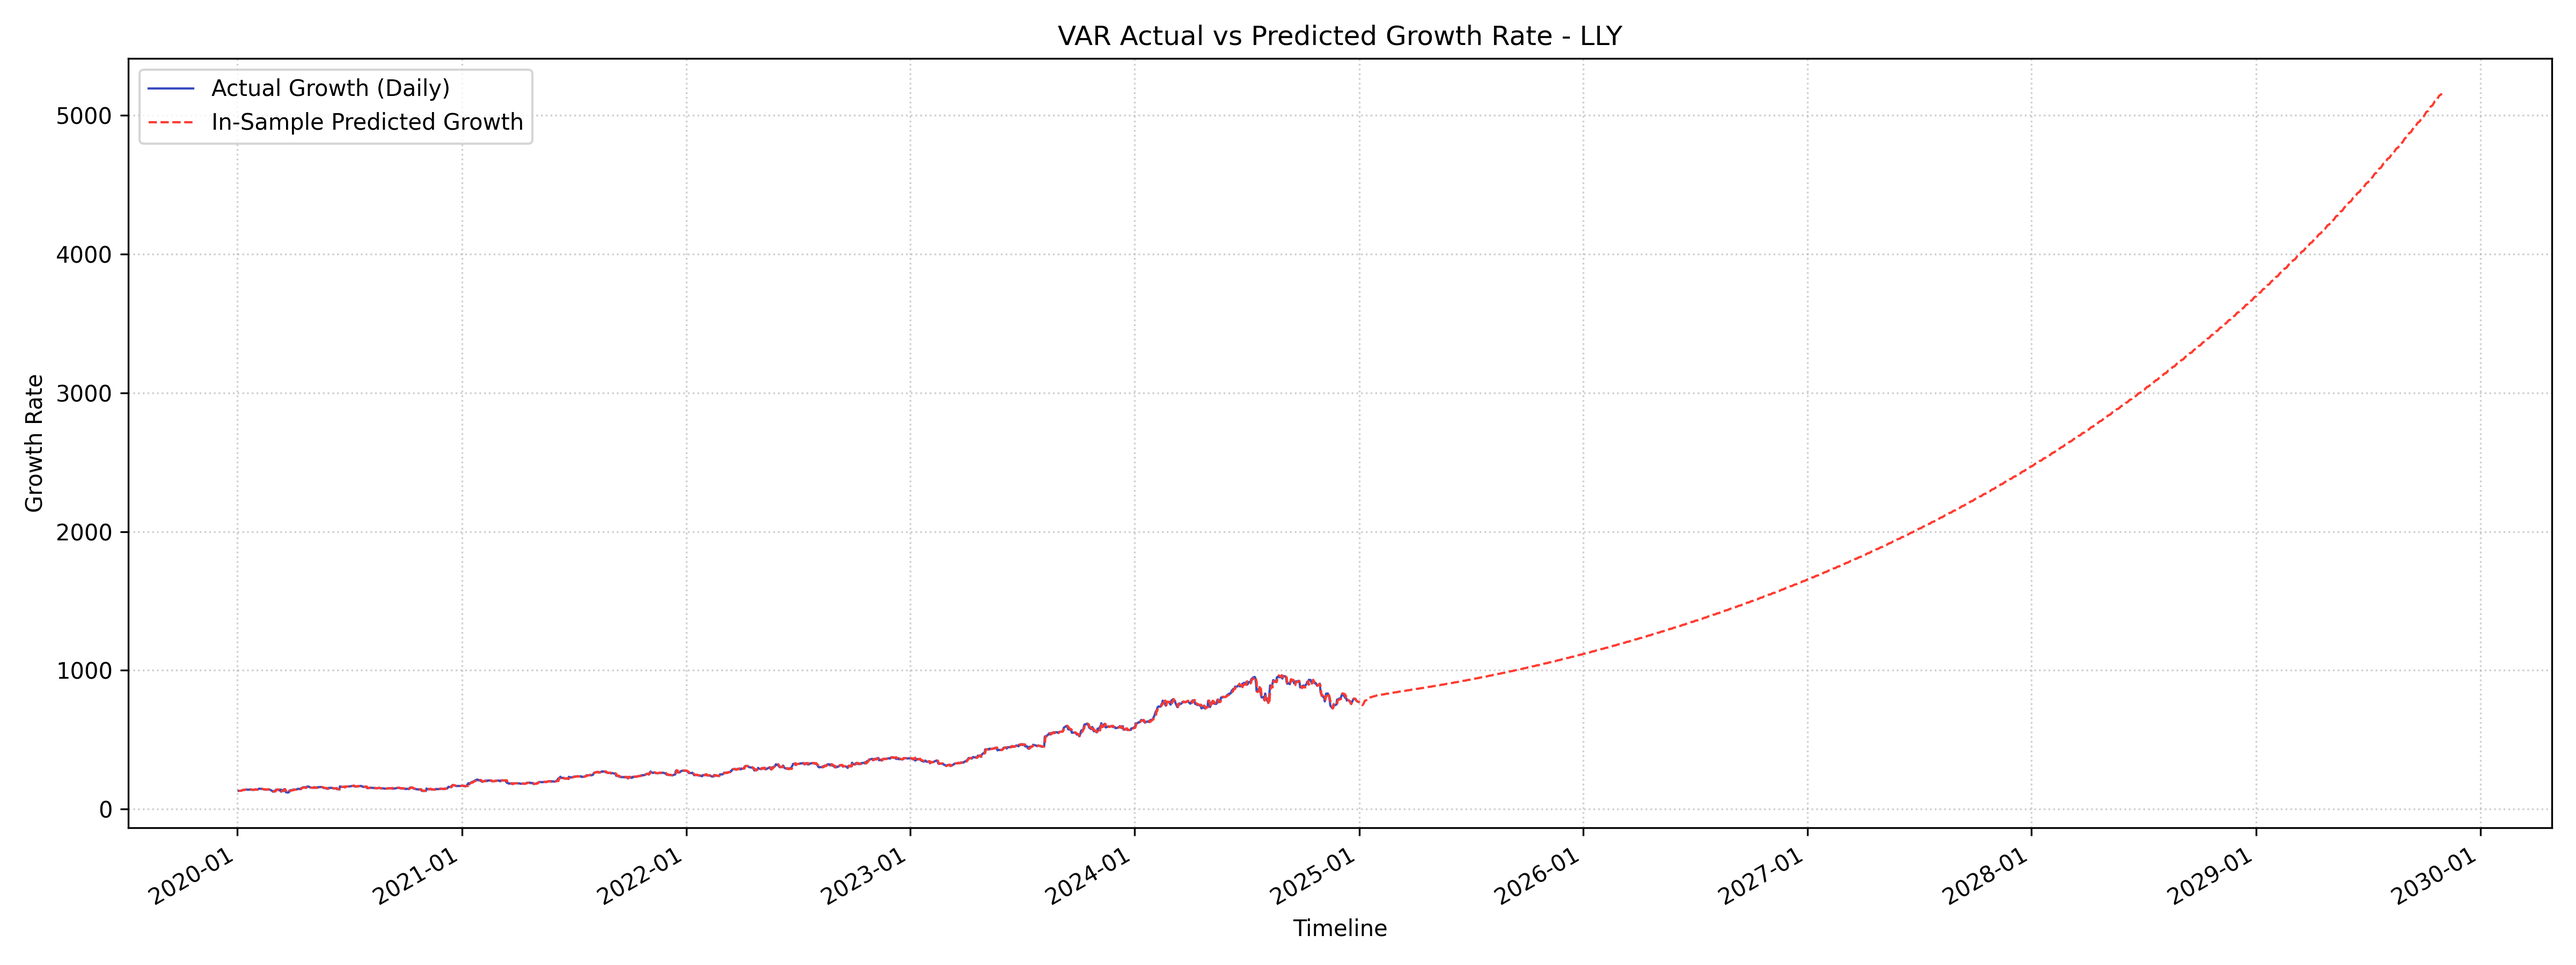
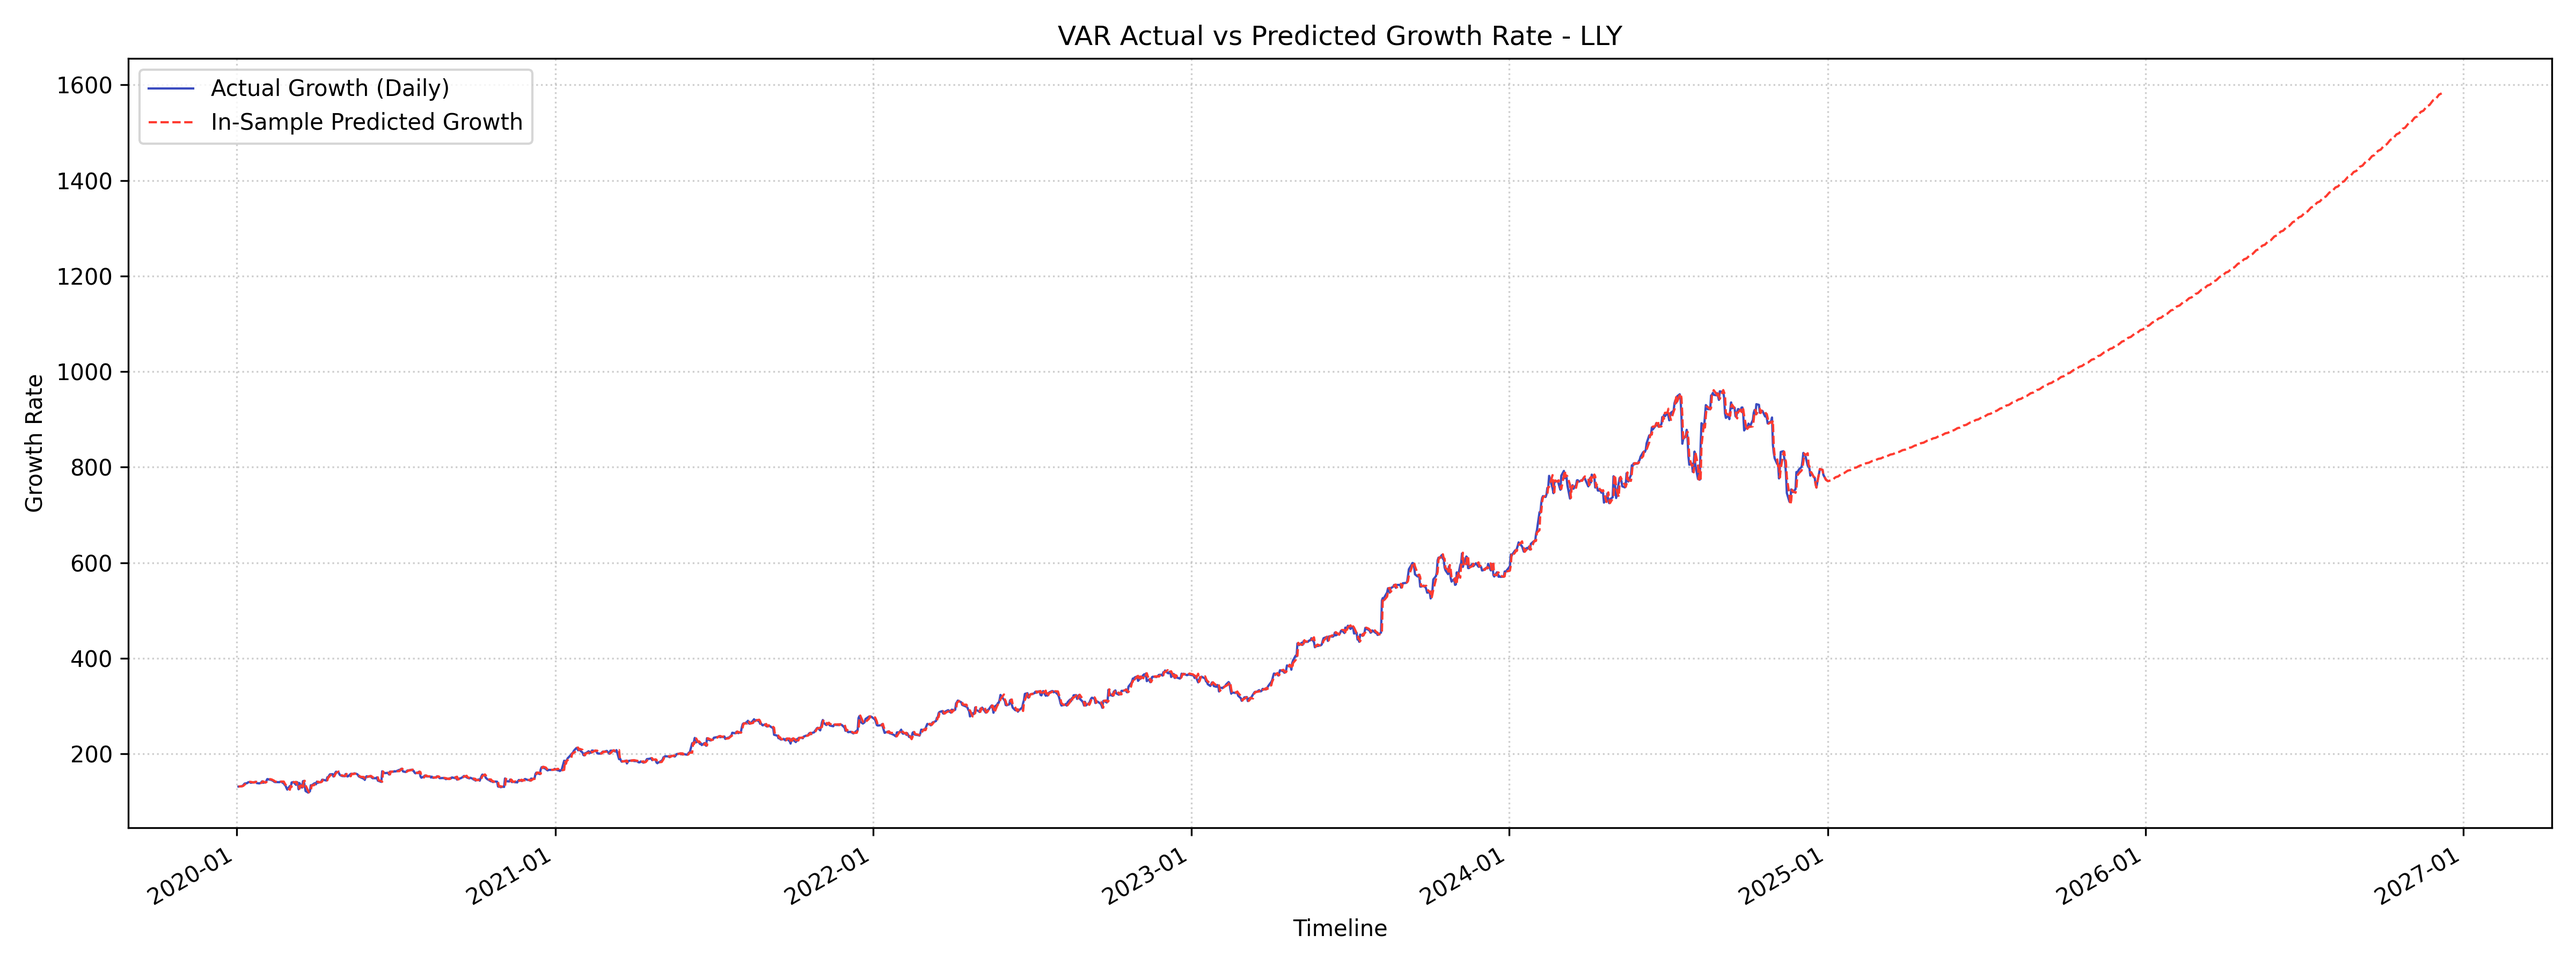
24M Prediction

diff --git a/ARIMAGrowthModel/testing.py b/ARIMAGrowthModel/testing.py
@@ -27,20 +27,20 @@ class ARIMATester:
         mae = float(np.mean(np.abs(errors)))
         
         last_exog = df[feature_cols].iloc[-1]
-        forecast_steps = 1260
-        logger.info(f"Forecasting {forecast_steps} daily steps (5 years) into the future")
+        forecast_steps = 504
+        logger.info(f"Forecasting {forecast_steps} daily steps (2 years) into the future")
         forecast_daily = self.model_arch.forecast_out_of_sample(forecast_steps, last_exog)
         
         annual_growth_rates = []
-        for i in range(5):
+        for i in range(2):
             segment_mean = float(forecast_daily.iloc[i * 252:(i + 1) * 252].mean())
             annual_growth_rates.append(segment_mean)
-        logger.info(f"Calculated 5-year forecasted annual growth rates: {annual_growth_rates}")
+        logger.info(f"Calculated 2-year forecasted annual growth rates: {annual_growth_rates}")
 
         dcf = DiscountedCashFlowModel(initial_fcf=150.0, discount_rate=0.09)
         intrinsic_val = dcf.calculate_valuation(
             growth_rates=annual_growth_rates,
-            forecast_years=5,
+            forecast_years=2,
             terminal_growth_rate=0.03,
             net_debt=200.0,
             shares_outstanding=10.0
@@ -56,14 +56,14 @@ class ARIMATester:
         max_date = df["date"].max()
         max_dt = datetime.datetime.combine(max_date, datetime.time.min, tzinfo=datetime.timezone.utc)
         to_date_ms = int(max_dt.timestamp() * 1000)
-        ms_5y = 5 * 365 * 24 * 60 * 60 * 1000
+        ms_2y = 2 * 365 * 24 * 60 * 60 * 1000
         future_from_ms = to_date_ms
-        future_to_ms = to_date_ms + ms_5y
-        future_5y_fwd_to_ms = future_to_ms + ms_5y
+        future_to_ms = to_date_ms + ms_2y
+        future_2y_fwd_to_ms = future_to_ms + ms_2y
 
-        logger.info(f"Fetching future base window {future_from_ms} to {future_to_ms} and forward window {future_to_ms} to {future_5y_fwd_to_ms} for {loader.symbol}")
+        logger.info(f"Fetching future base window {future_from_ms} to {future_to_ms} and forward window {future_to_ms} to {future_2y_fwd_to_ms} for {loader.symbol}")
         ohlcv_future_base = await loader._fetch_ohlcv_data(loader.symbol, future_from_ms, future_to_ms, real_time=False)
-        ohlcv_future_fwd = await loader._fetch_ohlcv_data(loader.symbol, future_to_ms, future_5y_fwd_to_ms, real_time=False)
+        ohlcv_future_fwd = await loader._fetch_ohlcv_data(loader.symbol, future_to_ms, future_2y_fwd_to_ms, real_time=False)
 
         daily_closes_future_base = {}
         for item in ohlcv_future_base:
@@ -83,11 +83,11 @@ class ARIMATester:
         out_predicted = []
 
         for i, (d, close_d) in enumerate(sorted(daily_closes_future_base.items())):
-            d_5y_fwd_target = d + datetime.timedelta(days=5 * 365)
+            d_2y_fwd_target = d + datetime.timedelta(days=2 * 365)
             actual_growth = None
             if dates_fwd:
-                closest_d = min(dates_fwd, key=lambda x: abs((x - d_5y_fwd_target).days))
-                if abs((closest_d - d_5y_fwd_target).days) <= MAX_FORWARD_TOLERANCE_DAYS:
+                closest_d = min(dates_fwd, key=lambda x: abs((x - d_2y_fwd_target).days))
+                if abs((closest_d - d_2y_fwd_target).days) <= MAX_FORWARD_TOLERANCE_DAYS:
                     actual_growth = (daily_closes_future_fwd[closest_d] - close_d) / close_d
 
             out_dates.append(pd.Timestamp(d))
@@ -152,9 +152,9 @@ class ARIMATester:
         ax.xaxis.set_major_locator(mdates.MonthLocator(interval=6))
         fig.autofmt_xdate(rotation=45)
 
-        ax.set_title(f"ARIMA: Actual vs Predicted 5-Year Forward Growth Rate ({symbol}, from 2015)")
+        ax.set_title(f"ARIMA: Actual vs Predicted 2-Year Forward Growth Rate ({symbol}, from 2015)")
         ax.set_xlabel("Date")
-        ax.set_ylabel("5-Year Forward Growth Rate")
+        ax.set_ylabel("2-Year Forward Growth Rate")
         ax.legend()
         ax.grid(True, linestyle=":", alpha=0.5)
 
@@ -162,4 +162,3 @@ class ARIMATester:
         plt.savefig(plot_path, dpi=300, bbox_inches="tight")
         plt.close()
         logger.info(f"Saved visualization results plot to: {plot_path}")
-

diff --git a/VARGrowthModel/testing.py b/VARGrowthModel/testing.py
@@ -20,7 +20,8 @@ class VARTester:
         train_np = df_growth.to_numpy()[:train_size]
         test_np = df_growth.to_numpy()[train_size:]
 
-        model = VectorAutoregressionModel(lags=self.trainer.lags)
+        lags_train = self.trainer.tune_lags(train_np)
+        model = VectorAutoregressionModel(lags=lags_train)
         model.fit(train_np)
         
         test_steps = len(test_np)
@@ -33,7 +34,8 @@ class VARTester:
         mse = np.mean((actual_close_growth - pred_close_growth) ** 2)
         mae = np.mean(np.abs(actual_close_growth - pred_close_growth))
 
-        full_model = VectorAutoregressionModel(lags=self.trainer.lags)
+        lags_full = self.trainer.tune_lags(df_growth.to_numpy())
+        full_model = VectorAutoregressionModel(lags=lags_full)
         full_model.fit(df_growth.to_numpy())
 
         if results_dir:
@@ -55,7 +57,7 @@ class VARTester:
                 pred_close_g = pred_growth[close_idx]
                 predicted_prices[t + 1] = ohlcv_list[t].close * (1.0 + pred_close_g)
 
-            future_forecasts = full_model.forecast(df_growth.to_numpy(), steps=1260)
+            future_forecasts = full_model.forecast(df_growth.to_numpy(), steps=504)
             current_price = predicted_prices[-1]
             for pred_g in future_forecasts[:, close_idx]:
                 next_price = current_price * (1.0 + pred_g)
@@ -63,7 +65,7 @@ class VARTester:
                 current_price = next_price
 
             last_date = actual_dates[-1]
-            future_dates = pd.date_range(start=last_date + pd.offsets.BDay(), periods=1260, freq="B")
+            future_dates = pd.date_range(start=last_date + pd.offsets.BDay(), periods=504, freq="B")
             predicted_dates = actual_dates + list(future_dates)
 
             plt.figure(figsize=(16, 6))
@@ -83,10 +85,10 @@ class VARTester:
             plt.savefig(os.path.join(results_dir, f"{symbol}_forecast.png"), dpi=300)
             plt.close()
 
-        future_forecasts = full_model.forecast(df_growth.to_numpy(), steps=1260)
+        future_forecasts = full_model.forecast(df_growth.to_numpy(), steps=504)
         
         annual_growths = []
-        for year in range(5):
+        for year in range(2):
             start_idx = year * 252
             end_idx = (year + 1) * 252
             year_forecasts = future_forecasts[start_idx:end_idx, close_idx]
@@ -104,7 +106,7 @@ class VARTester:
         ddm_val = ddm.calculate_constant_growth(growth_rate=ddm_g)
         dcf_val = dcf.calculate_valuation(
             growth_rates=dcf_rates,
-            forecast_years=5,
+            forecast_years=2,
             terminal_growth_rate=0.03,
             net_debt=200.0,
             shares_outstanding=10.0

diff --git a/VARGrowthModel/training.py b/VARGrowthModel/training.py
@@ -63,8 +63,38 @@ class VARTrainer:
 
         return df_merged
 
+    def tune_lags(self, data: np.ndarray) -> int:
+        best_lag = 5
+        best_val_mse = float("inf")
+        n_samples = len(data)
+        split_idx = int(n_samples * 0.8)
+        train_data = data[:split_idx]
+        val_data = data[split_idx:]
+        for lag in range(1, 11):
+            if len(train_data) <= lag or len(val_data) <= lag:
+                continue
+            try:
+                temp_model = VectorAutoregressionModel(lags=lag)
+                temp_model.fit(train_data)
+                val_errors = []
+                for t in range(lag, len(val_data)):
+                    row = [1.0]
+                    for l in range(1, lag + 1):
+                        row.extend(val_data[t - l])
+                    pred = np.array(row) @ temp_model.coefficients
+                    val_errors.append(val_data[t] - pred)
+                val_mse = np.mean(np.array(val_errors) ** 2)
+                if val_mse < best_val_mse:
+                    best_val_mse = val_mse
+                    best_lag = lag
+            except Exception:
+                continue
+        return best_lag
+
     def train(self, ohlcv_list: list, scores_list: list = None) -> VectorAutoregressionModel:
         df_growth = self.prepare_data(ohlcv_list, scores_list)
+        data = df_growth.to_numpy()
+        self.lags = self.tune_lags(data)
         model = VectorAutoregressionModel(lags=self.lags)
-        model.fit(df_growth.to_numpy())
+        model.fit(data)
         return model

diff --git a/ARIMAGrowthModel/architecture.py b/ARIMAGrowthModel/architecture.py
@@ -27,6 +27,22 @@ class ARIMAModelArchitecture:
             self.fitted_features = list(exog.columns)
             logger.info(f"Filtered training features: {self.fitted_features}")
 
+        best_aic = float("inf")
+        best_order = (self.p, self.d, self.q)
+        for p in [1, 2]:
+            for d in [0, 1]:
+                for q in [0, 1]:
+                    try:
+                        temp_model = ARIMA(endog, order=(p, d, q), exog=exog)
+                        temp_fit = temp_model.fit()
+                        if temp_fit.aic < best_aic:
+                            best_aic = temp_fit.aic
+                            best_order = (p, d, q)
+                    except Exception:
+                        continue
+        self.p, self.d, self.q = best_order
+        logger.info(f"Tuned ARIMA parameters: p={self.p}, d={self.d}, q={self.q} (AIC={best_aic:.2f})")
+
         try:
             model = ARIMA(endog, order=(self.p, self.d, self.q), exog=exog)
             self.model_fit = model.fit()
@@ -48,8 +64,8 @@ class ARIMAModelArchitecture:
             raise ValuationError("Model has not been trained yet")
 
         n = len(endog)
-        FORECAST_HORIZON = 1260   # 5 years in trading days
-        STEP = 5                  # refit every 5 days, then interpolate
+        FORECAST_HORIZON = 504
+        STEP = 5
         min_train = max(self.p + self.q + 2, 10)
 
         exog = exog_full[self.fitted_features].fillna(0.0) if self.fitted_features else None

diff --git a/run_arima_refactored.py b/run_arima_refactored.py
@@ -47,7 +47,7 @@ async def run_symbol(symbol: str):
         logger.info(f"[{symbol}] === ARIMA Report ===")
         logger.info(f"[{symbol}] In-Sample MSE: {report['mse']:.6f}")
         logger.info(f"[{symbol}] In-Sample MAE: {report['mae']:.6f}")
-        logger.info(f"[{symbol}] Forecasted Annual Growth Rates (5 Yrs): {report['forecasted_growth_rates']}")
+        logger.info(f"[{symbol}] Forecasted Annual Growth Rates (2 Yrs): {report['forecasted_growth_rates']}")
         logger.info(f"[{symbol}] DCF Intrinsic Value: ${report['intrinsic_value']:.2f}")
         logger.info(f"[{symbol}] Plot saved to results/{symbol}_valuation_forecast.png")
 

diff --git a/SentimentAnalysis/SentimentTrendAnalysisFetcher.py b/SentimentAnalysis/SentimentTrendAnalysisFetcher.py
@@ -24,7 +24,7 @@ class SentimentTrendAnalysisFetcher:
         self._headers = self._headers
         self._logger.info(f"Connecting to {self._url} for sentiment trend analysis of {category}")
         try:
-            async with websockets.connect(self._url, additional_headers=self._headers, max_size=None) as websocket:
+            async with websockets.connect(self._url, extra_headers=self._headers, max_size=None) as websocket:
                 self._logger.info("Sending request payload")
                 await websocket.send(json.dumps(payload))
                 response = await websocket.recv()

diff --git a/SectorAnalysis/SectorAnalysisFetcher.py b/SectorAnalysis/SectorAnalysisFetcher.py
@@ -23,7 +23,7 @@ class SectorAnalysisFetcher:
         payload = request.to_dict()
         self._logger.info(f"Connecting to {self._url} for sector analysis of {company_name}")
         try:
-            async with websockets.connect(self._url, additional_headers=self._headers, max_size=None) as websocket:
+            async with websockets.connect(self._url, extra_headers=self._headers, max_size=None) as websocket:
                 self._logger.info("Sending request payload")
                 await websocket.send(json.dumps(payload))
                 response = await websocket.recv()

diff --git a/SentimentAnalysis/SentimentAnalysisFetcher.py b/SentimentAnalysis/SentimentAnalysisFetcher.py
@@ -23,7 +23,7 @@ class SentimentAnalysisFetcher:
         payload = request.to_dict()
         self._logger.info(f"Connecting to {self._url} for sentiment analysis of {symbol}")
         try:
-            async with websockets.connect(self._url, additional_headers=self._headers, max_size=None) as websocket:
+            async with websockets.connect(self._url, extra_headers=self._headers, max_size=None) as websocket:
                 self._logger.info("Sending request payload")
                 await websocket.send(json.dumps(payload))
                 response = await websocket.recv()

diff --git a/FundamentalAnalysis/client.py b/FundamentalAnalysis/client.py
@@ -21,7 +21,7 @@ class FundamentalWebSocketClient:
             if self.api_key:
                 headers["X-API-KEY"] = self.api_key
                 headers["X_API_KEY"] = self.api_key
-            self.connection = await websockets.connect(self.url, additional_headers=headers, max_size=None)
+            self.connection = await websockets.connect(self.url, extra_headers=headers, max_size=None)
             logger.info("Successfully connected to WebSocket")
         except Exception as e:
             logger.error(f"Failed to connect to {self.url}: {e}")

diff --git a/TechnicalAnalysis/client.py b/TechnicalAnalysis/client.py
@@ -21,7 +21,7 @@ class TechnicalWebSocketClient:
             if self.api_key:
                 headers["X-API-KEY"] = self.api_key
                 headers["X_API_KEY"] = self.api_key
-            self.connection = await websockets.connect(self.url, additional_headers=headers, max_size=None)
+            self.connection = await websockets.connect(self.url, extra_headers=headers, max_size=None)
             logger.info("Successfully connected to WebSocket")
         except Exception as e:
             logger.error(f"Failed to connect to {self.url}: {e}")

diff --git a/ARIMAGrowthModel/data_loader.py b/ARIMAGrowthModel/data_loader.py
@@ -26,7 +26,7 @@ class ARIMADataLoader:
             headers["X-API-KEY"] = self.api_key
             headers["X_API_KEY"] = self.api_key
         try:
-            async with websockets.connect(WS_URL, additional_headers=headers, max_size=None, ping_interval=None) as ws:
+            async with websockets.connect(WS_URL, extra_headers=headers, max_size=None, ping_interval=None) as ws:
                 req = {
                     "type": "ohlcvData",
                     "action": "GET_OHLCV_DATA",

diff --git a/run_var.py b/run_var.py
@@ -73,7 +73,7 @@ def main():
         for day, g in enumerate(metrics['daily_forecasts'], 1):
             print(f"Day {day:02d}:                  {g*100:+.6f}%")
         print("="*50)
-        print("5-YEAR GROWTH RATE PREDICTIONS (ANNUAL)")
+        print("24-MONTH GROWTH RATE PREDICTIONS (ANNUAL)")
         print("="*50)
         for year, g in enumerate(metrics['annual_growths'], 1):
             print(f"Year {year}:                 {g*100:+.0f}%")
